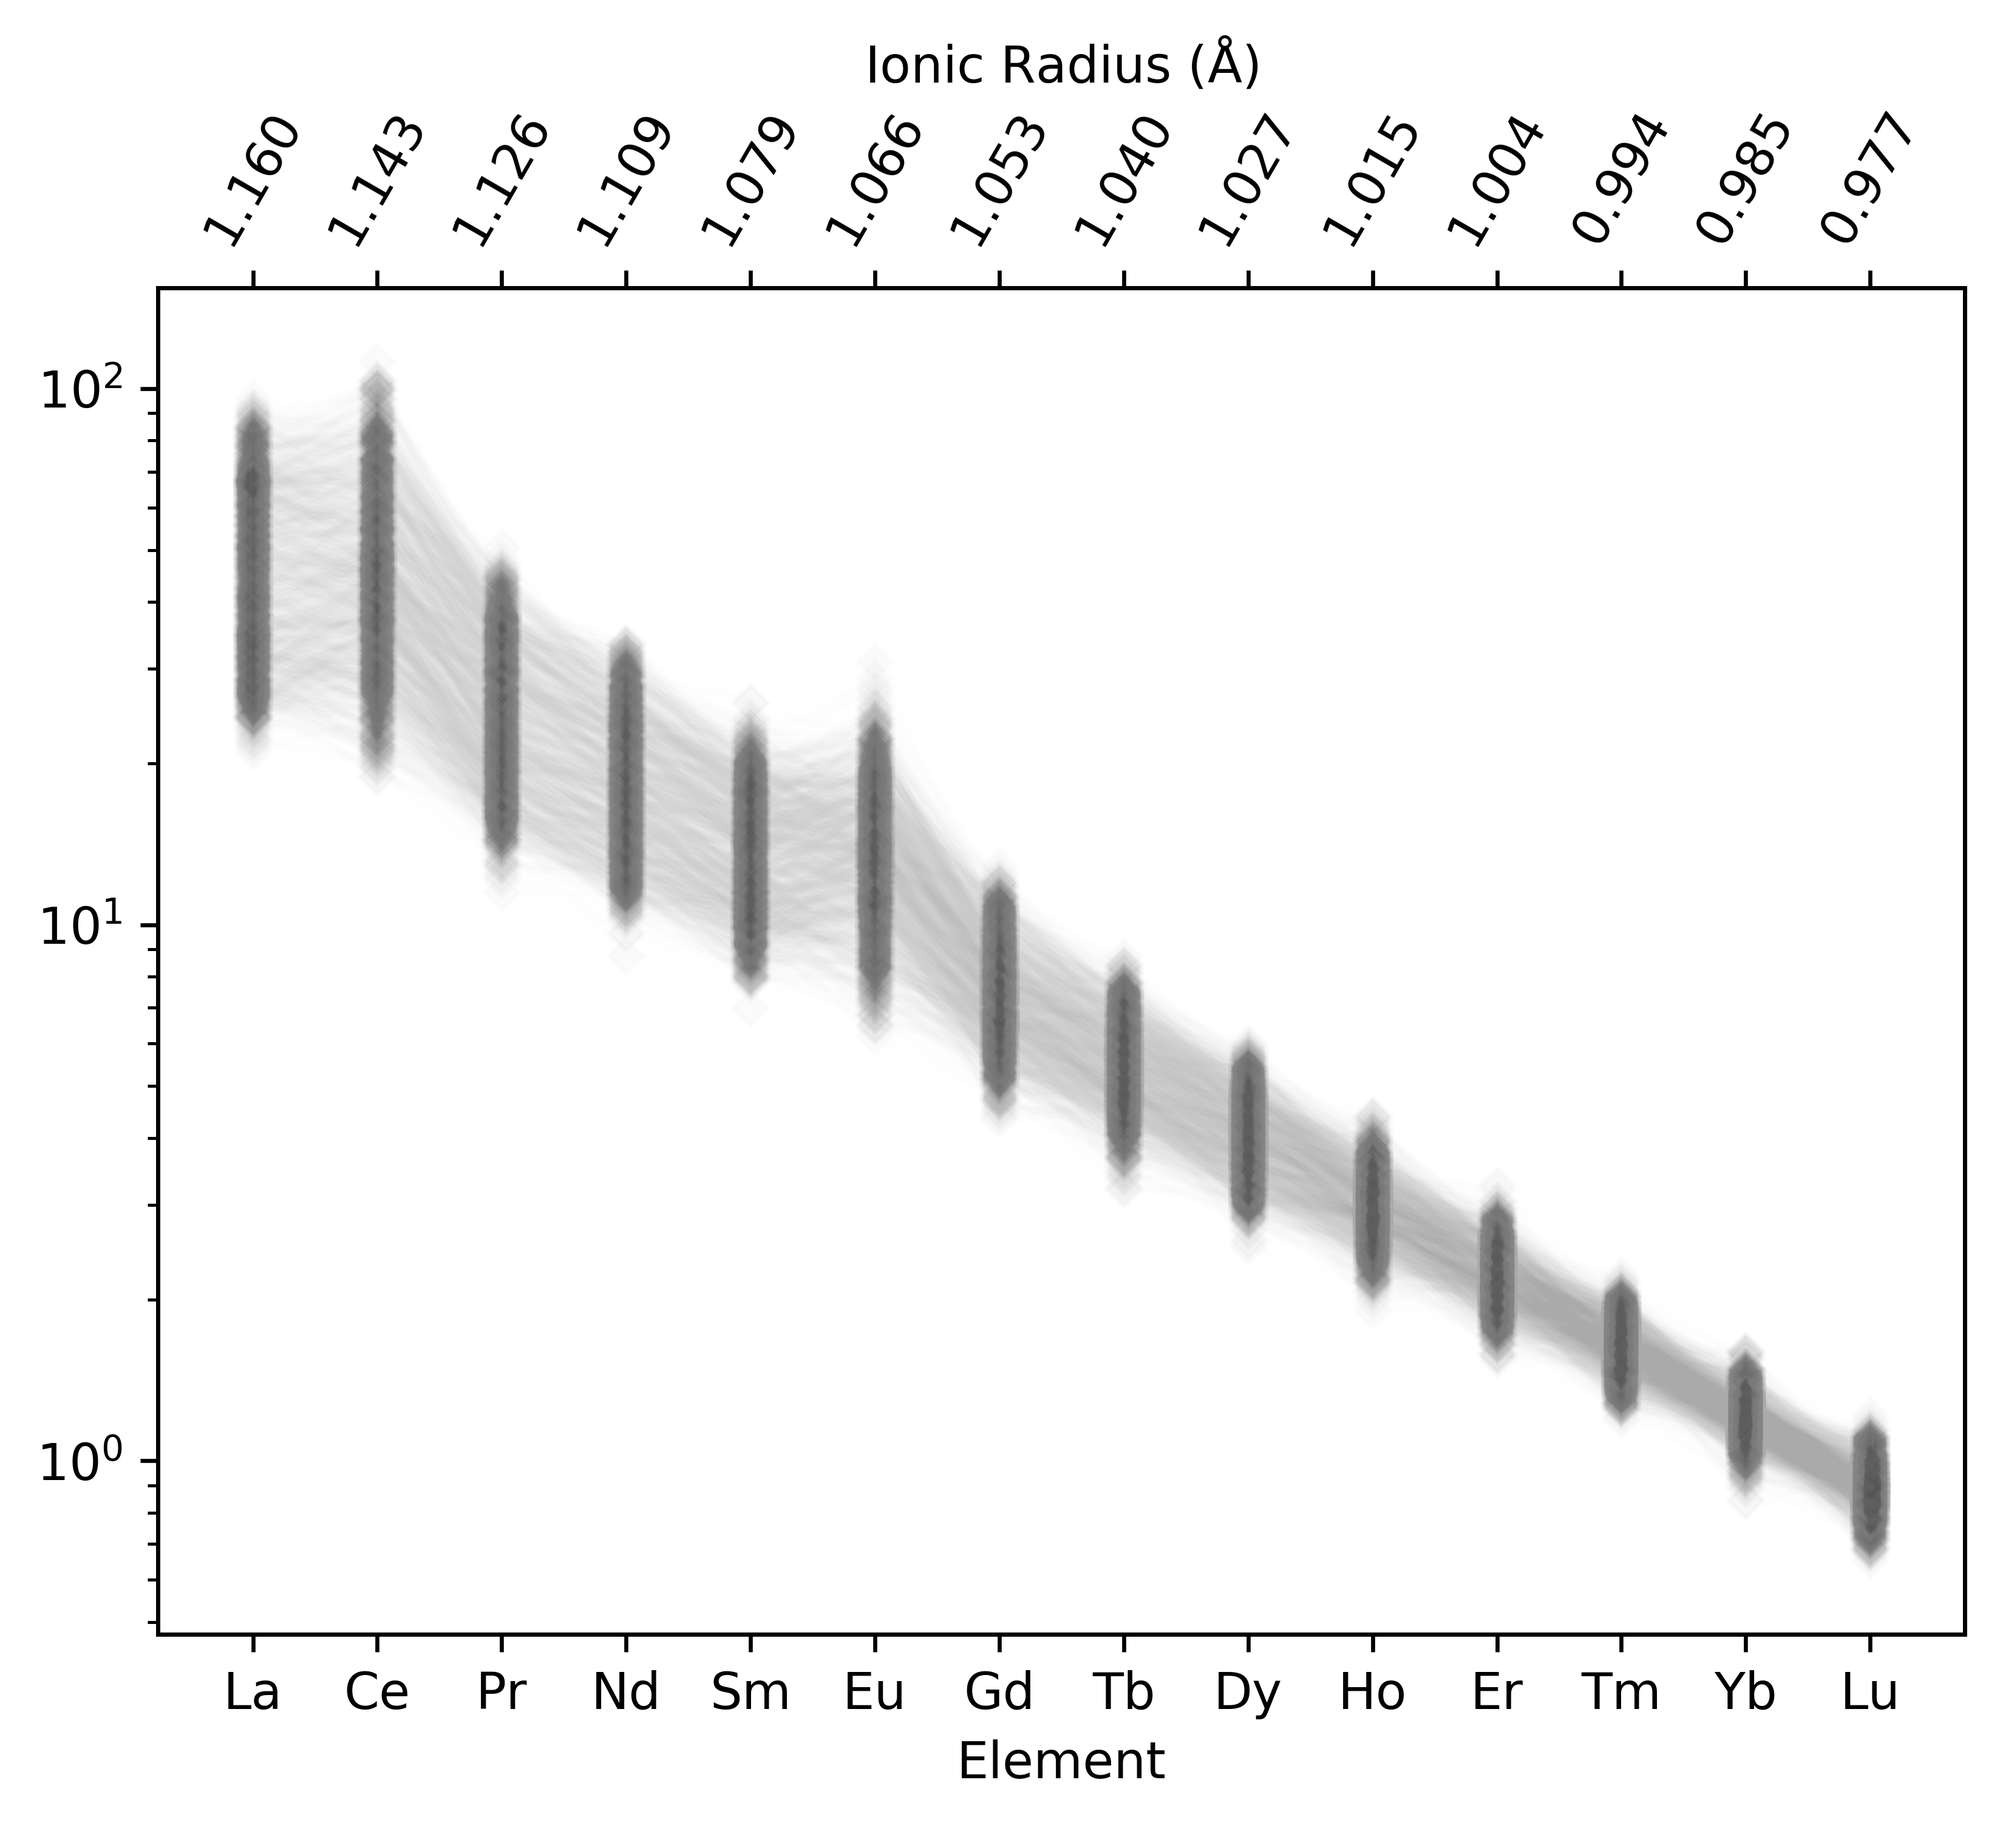
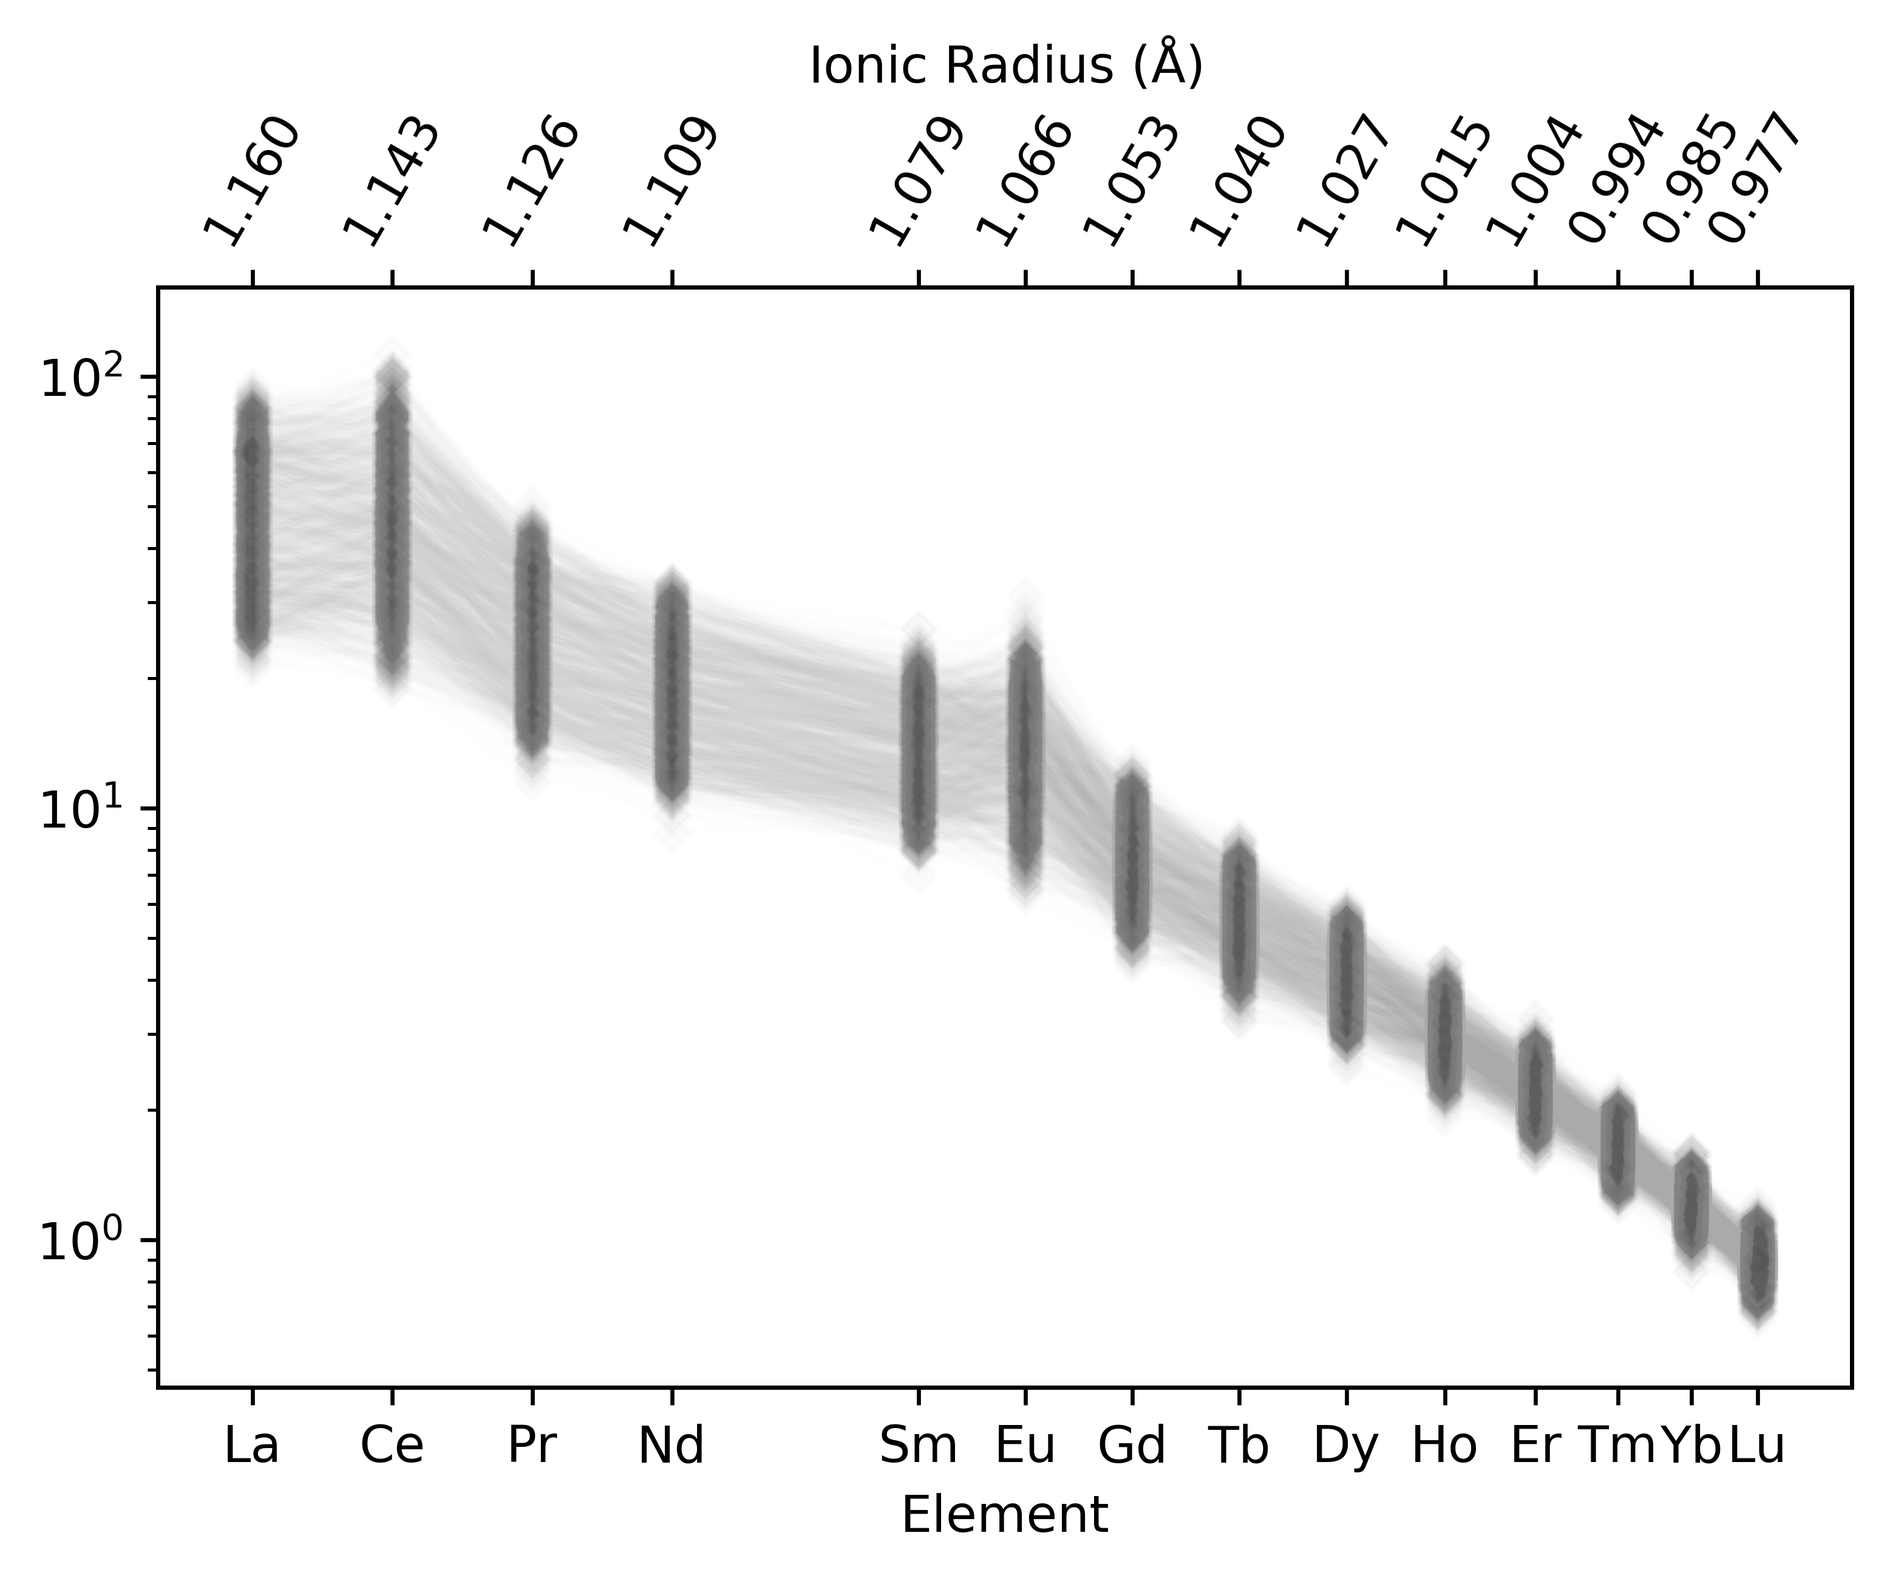
Update plot.spider.REE_v_radii

Changed region(s): [[0.0, 0.0, 0.9971, 0.9973], [0.4051, 0.0935, 0.4362, 0.1247]]

diff --git a/pyrolite/plot/spider.py b/pyrolite/plot/spider.py
@@ -229,7 +229,7 @@ def REE_v_radii(
     arr=None,
     ax=None,
     ree=REE(),
-    index="radii",
+    index="elements",
     mode="plot",
     tl_rotation=60,
     unity_line=False,
@@ -290,16 +290,16 @@ def REE_v_radii(
     xtitle, _xtitle = r"Ionic Radius ($\mathrm{\AA}$)", "Element"
 
     if index == "radii":
+        invertx = False
         indexes = radii
         xlim = (0.99 * np.min(radii), 1.01 * np.max(radii))
     else:  # mode == 'elements'
-
-        indexes = None
+        invertx = True
+        indexes = radii
         xlim = None
         # swap ticks labels etc,
         _xtitle, xtitle = xtitle, _xtitle
         _xlabels, xlabels = xlabels, _xlabels
-        _xticks, xticks = np.arange(len(ree)), np.arange(len(ree))
         _xlabelrotation, xlabelrotation = xlabelrotation, _xlabelrotation
 
     if arr is not None:
@@ -313,6 +313,8 @@ def REE_v_radii(
     ax.set_xticklabels(xlabels, rotation=xlabelrotation)
     if xlim is not None:
         ax.set_xlim(xlim)
+    if invertx:
+        ax.invert_xaxis()
     _ax = ax.twiny()
     _ax.set_xlabel(_xtitle)
     _ax.set_xticks(_xticks)
